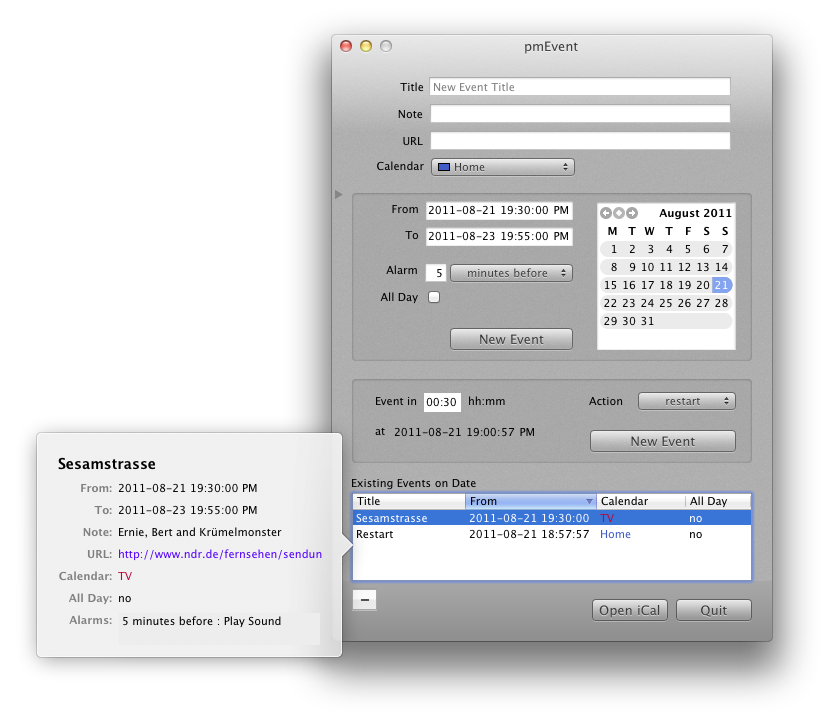
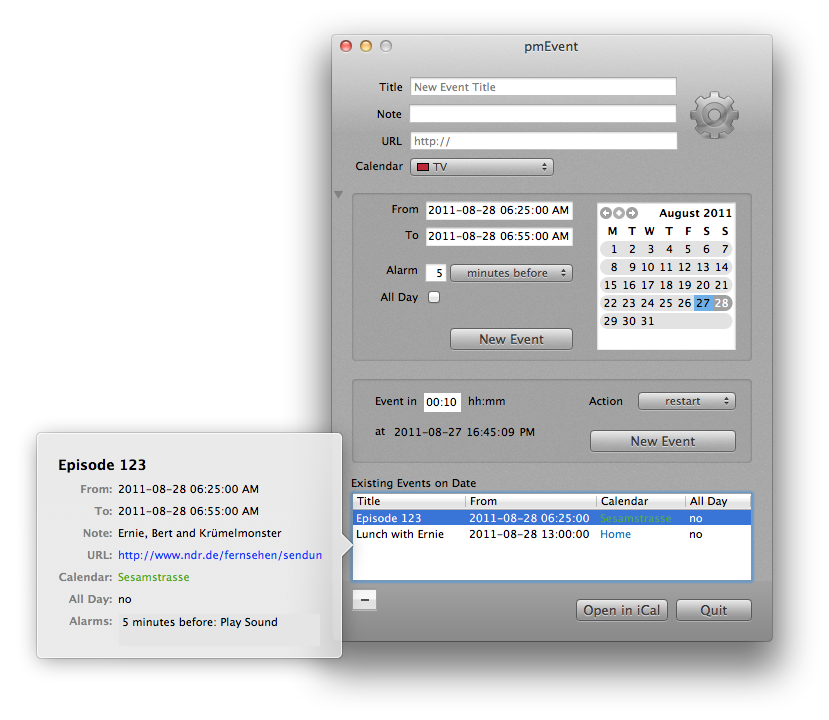
try open iCalon selected event, cleanup

diff --git a/pmEvent/EventController.m b/pmEvent/EventController.m
@@ -9,10 +9,11 @@
 
 @implementation EventController
 
-@synthesize alarmMinutes;
-@synthesize eventEndDate;
-@synthesize eventStartDate;
 @synthesize model;
+@synthesize eventStartDate;
+@synthesize eventEndDate;
+@synthesize alarmMinutes;
+@synthesize shouldUpdateEventEndTime;
 
 #pragma mark -
 #pragma mark init
@@ -151,6 +152,27 @@
     [CalendarEvent deleteEvent:calEvent];
     if ([[eventArrayController arrangedObjects]count] < 1) {
         [[sender window] makeFirstResponder:[[sender window] initialFirstResponder]];
+    }
+}
+
+- (IBAction)launchIcal:(id)sender
+{    
+    if ([eventArrayController selectedObjects].count > 0) {
+        CalEvent *calEvent = [[eventArrayController selectedObjects]objectAtIndex:0];
+        
+        NSString *source = [NSString stringWithFormat:@"tell application \"iCal\" \n activate\n" 
+                        "tell calendar \"%@\" \n set MyEvent to first event whose uid=\"%@\" \n end tell\n"
+                        "if MyEvent is not null then \n show MyEvent\n end if\n"
+                        "end tell", calEvent.calendar.title, calEvent.uid];
+
+        NSDictionary *errorInfo = [NSDictionary dictionary];
+        NSAppleScript *script = [[NSAppleScript alloc] initWithSource:source];
+        [script executeAndReturnError:&errorInfo];
+        // TODO: error handling, all day events
+
+    } else {
+        NSWorkspace *ws = [[[NSWorkspace alloc]init]autorelease];
+        [ws launchApplication:@"iCal"];
     }
 }
 

diff --git a/pmEvent/EventController.h b/pmEvent/EventController.h
@@ -17,24 +17,25 @@
     IBOutlet NSDatePicker       *datePickerEventEnd;
     IBOutlet NSTextField        *alarmMinutesField;
     IBOutlet NSArrayController  *eventArrayController;
-
+    Model       *model;
 	NSDate		*eventStartDate;
     NSDate		*eventEndDate;
     NSNumber    *alarmMinutes;
     BOOL        shouldUpdateEventEndTime;
-    Model       *model;
 }
 
-@property (copy) NSNumber *alarmMinutes;
+@property (nonatomic, retain) Model *model;
 @property (readonly, copy) NSDate *currentDate;
 @property (copy) NSDate *eventStartDate;
 @property (copy) NSDate *eventEndDate;
-@property (nonatomic, retain) Model *model;
+@property (copy) NSNumber *alarmMinutes;
+@property (assign) BOOL shouldUpdateEventEndTime;
 
 - (IBAction)alarmPopUpMinutesChanged:(id)sender;
 - (IBAction)eventEndTimeChanged:(id)sender;
 - (IBAction)createEvent:(id)sender;
 - (IBAction)deleteEvent:(id)sender;
+- (IBAction)launchIcal:(id)sender;
 - (NSArray*)events;
 
 @end

diff --git a/pmEvent/PopoverController.m b/pmEvent/PopoverController.m
@@ -8,6 +8,7 @@
 #import "CalendarEvent.h"
 
 @implementation PopoverController
+@synthesize alarmArray;
 
 - (id)init 
 {
@@ -58,9 +59,7 @@
         if ([keyPath isEqualTo:@"selectionIndexes"]) {
             // selection in eventTableView has changed
             if ([[eventArrayController selectedObjects] count] > 0) {
-                [alarmArray release];
-                alarmArray = [CalendarEvent descriptionOfAlarmsOfEvent:[[eventArrayController selectedObjects]objectAtIndex:0]];
-                [alarmArray retain];
+                self.alarmArray = [CalendarEvent descriptionOfAlarmsOfEvent:[[eventArrayController selectedObjects]objectAtIndex:0]];
             }
             [popoverAlarmTableView reloadData];
         } 

diff --git a/pmEvent/AppDelegate.h b/pmEvent/AppDelegate.h
@@ -28,6 +28,8 @@ extern NSString *PMDisplayEventBoxKey;
 }
 
 @property (assign) IBOutlet NSWindow *window;
+@property (retain) Model    *model;
+@property (copy)   NSString *gitDescription;
 
 - (IBAction)displayEventBox:(id)sender;
 - (IBAction)displayStatusIcon:(id)sender;
@@ -36,7 +38,6 @@ extern NSString *PMDisplayEventBoxKey;
 - (IBAction)endAllSheets:(id)sender;
 - (IBAction)resetPreferences:(id)sender;
 - (IBAction)openUrl:(id)sender;
-- (IBAction)launchIcal:(id)sender;
 - (IBAction)quit:(id)sender;
 
 @end

diff --git a/pmEvent/AppDelegate.m b/pmEvent/AppDelegate.m
@@ -13,6 +13,8 @@ NSString *PMCalendarKey          = @"calendar";
 @implementation AppDelegate
 
 @synthesize window;
+@synthesize model;
+@synthesize gitDescription;
 
 static NSUserDefaults *prefs;
 
@@ -168,12 +170,6 @@ static NSUserDefaults *prefs;
 
 #pragma mark -
 #pragma mark IBAction
-
-- (IBAction)launchIcal:(id)sender
-{
-    NSWorkspace *ws = [[[NSWorkspace alloc]init]autorelease];
-    [ws launchApplication:@"iCal"];
-}
 
 - (IBAction)quit:(id)sender
 {

diff --git a/pmEvent/PopoverController.h b/pmEvent/PopoverController.h
@@ -7,11 +7,14 @@
 
 @interface PopoverController : NSViewController <NSPopoverDelegate,NSTableViewDataSource>
 {
-    NSPopover *popover;
     IBOutlet NSArrayController *eventArrayController;
     IBOutlet NSTableView       *popoverAlarmTableView;
+    NSPopover *popover;
     NSArray *alarmArray;
 }
+
+@property (retain) NSArray *alarmArray;
+
 - (IBAction)togglePopover:(id)sender;
 - (IBAction)closePopover:(id)sender;
 
